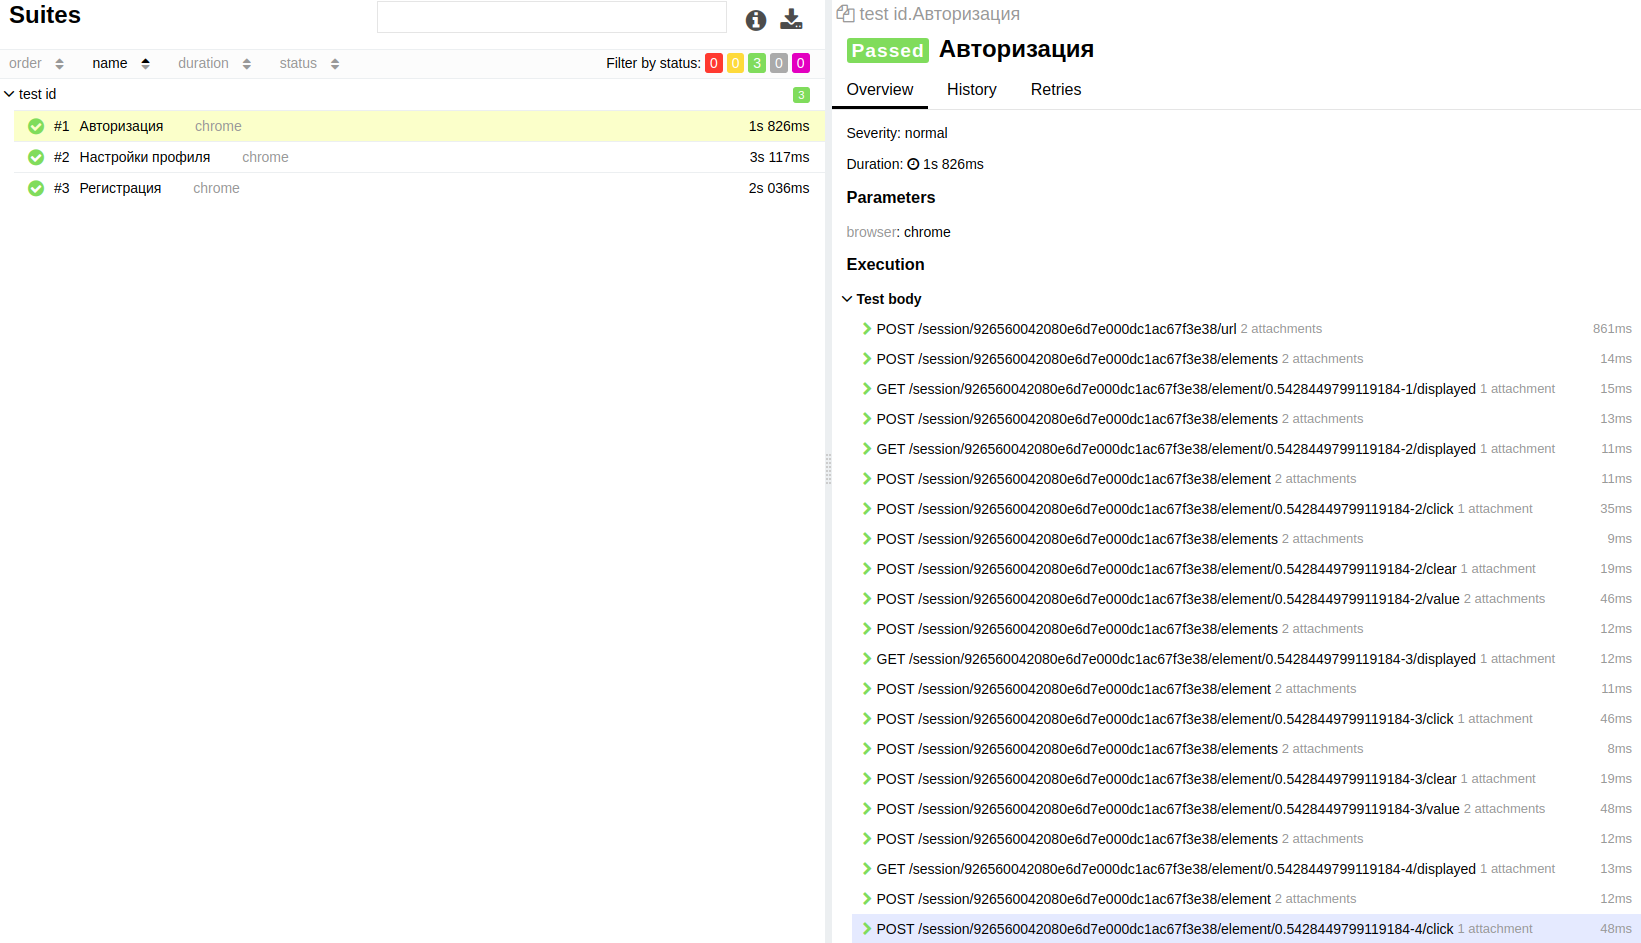
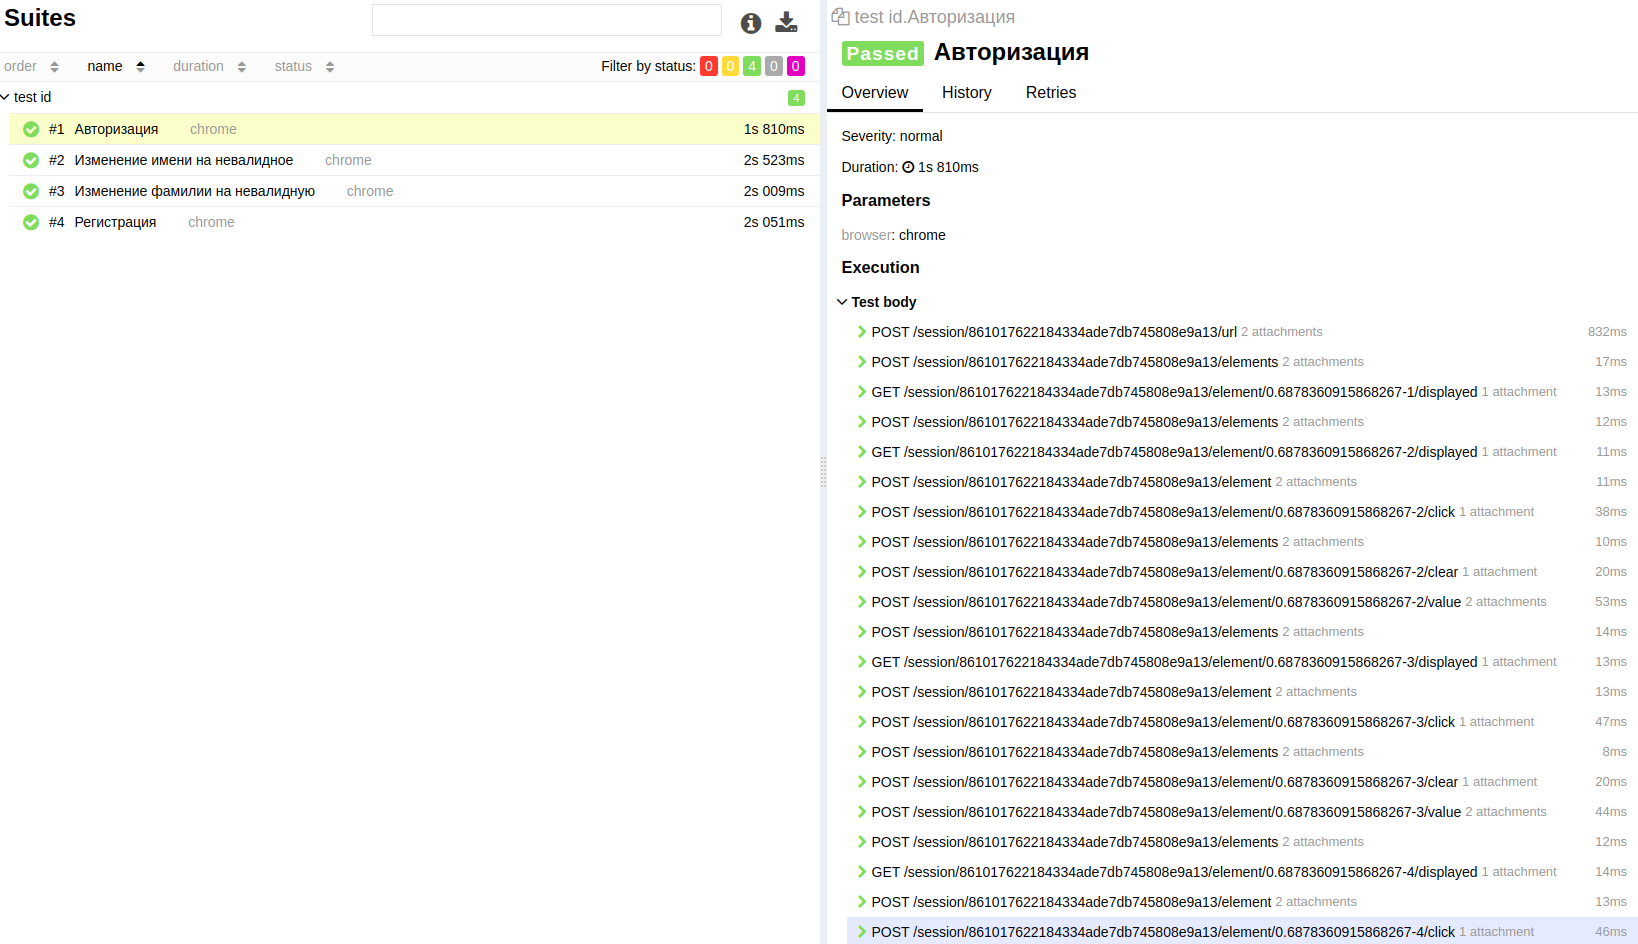
fix after rewiev

Changed region(s): [[0.0, 0.0, 0.9963, 1.0], [0.0, 0.0, 0.0623, 0.0308], [0.2179, 0.1845, 0.2491, 0.2153]]

diff --git a/steps/profile_settings.js b/steps/profile_settings.js
@@ -6,28 +6,29 @@ class ProfileSettingsPage extends DefaultSteps {
 		super(page);
 	}
 
-	change() {
+	changeName(name) {
 		this.open('https://drello.works/profile');
 		this.waitForProfileSettings();
-		
-		this.setInvalidName();
-		this.setInvalidSurname();
+
+		this.page.fillNameForm(name);
+		this.page.submit();
 	}
 
-
-	setInvalidName() {
-		this.page.fillNameForm("1");
-		this.page.submit();
+	checkInvalidName() {
 		this.page.checkInvalidNameForm();
 	}
 
+	changeSurname(surname) {
+		this.open('https://drello.works/profile');
+		this.waitForProfileSettings();
 
-	setInvalidSurname() {
-		this.page.fillSurnameForm("2");
+		this.page.fillSurnameForm(surname);
 		this.page.submit();
-		this.page.checkInvalidSurnameForm();
 	}
 
+	checkInvalidSurname() {
+		this.page.checkInvalidSurnameForm();
+	}
 
 	waitForProfileSettings() {
 		this.page.waitForContainer();

diff --git a/cases/example/profile_settings.js b/cases/example/profile_settings.js
@@ -1,4 +1,4 @@
-import profile_settings from '../../steps/profile_settings';
+import profileSettings from '../../steps/profile_settings';
 import authorization from '../../steps/authorization';
 import letters from '../../steps/letters/index';
 
@@ -6,11 +6,18 @@ import letters from '../../steps/letters/index';
 describe('test id', () => {
 
 	beforeEach(() => {
-        authorization.auth();
-    });
+            authorization.auth();
+       });
 	
-	it('Настройки профиля', () => {
-	    profile_settings.change();
+	it('Изменение имени на невалидное', () => {
+	    profileSettings.changeName('1');
+	    profileSettings.checkInvalidName();
+	});
+
+
+	it('Изменение фамилии на невалидную', () => {
+	    profileSettings.changeSurname('2');
+	    profileSettings.checkInvalidSurname();
 	});
 	
 });

diff --git a/pages/profile_settings.js b/pages/profile_settings.js
@@ -15,11 +15,6 @@ class ProfileSettingsPage extends DefaultPage {
 		}
 	}
 
-	get nameForm() {
-		this.page.waitForVisible(this.locators.name);
-		return this.page.getValue(this.locators.name);
-	}
-
 	fillNameForm (name) {
 		this.page.waitForVisible(this.locators.name);
 		this.page.click(this.locators.name);
@@ -28,11 +23,6 @@ class ProfileSettingsPage extends DefaultPage {
 
 	checkInvalidNameForm () {
 		this.page.waitForVisible(this.locators.nameError);
-	}
-
-	get surnameForm() {
-		this.page.waitForVisible(this.locators.surname);
-		return this.page.getValue(this.locators.surname);
 	}
 
 	fillSurnameForm (surname) {
